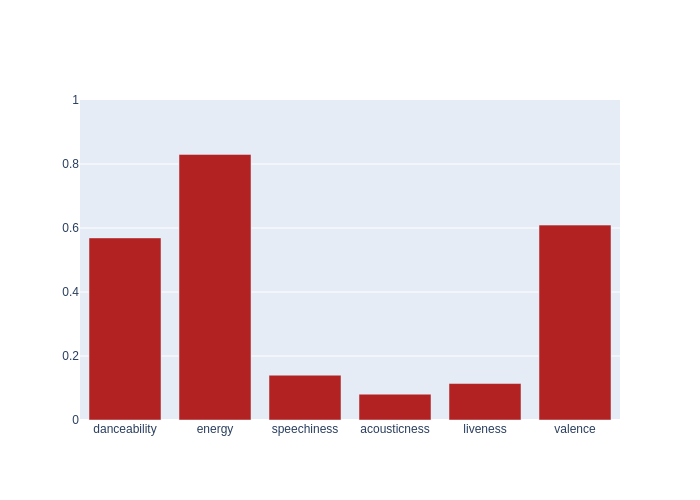
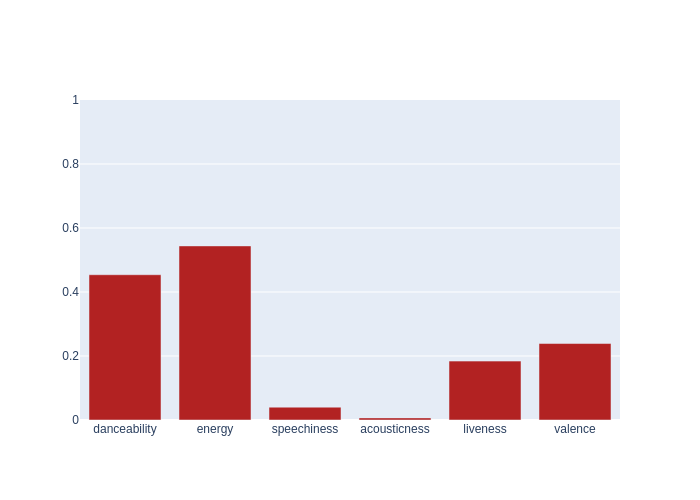
Automated README update

diff --git a/README.md b/README.md
@@ -4,7 +4,7 @@ Automated music metrics for fun, updated hourly.
 
 ## Spotify
 
-- currently listening to **Panic! At The Disco - I Write Sins Not Tragedies**
+- currently listening to **Soudiere - I Be That Mf**
 
 - **839** liked songs
 - **129** playlists
